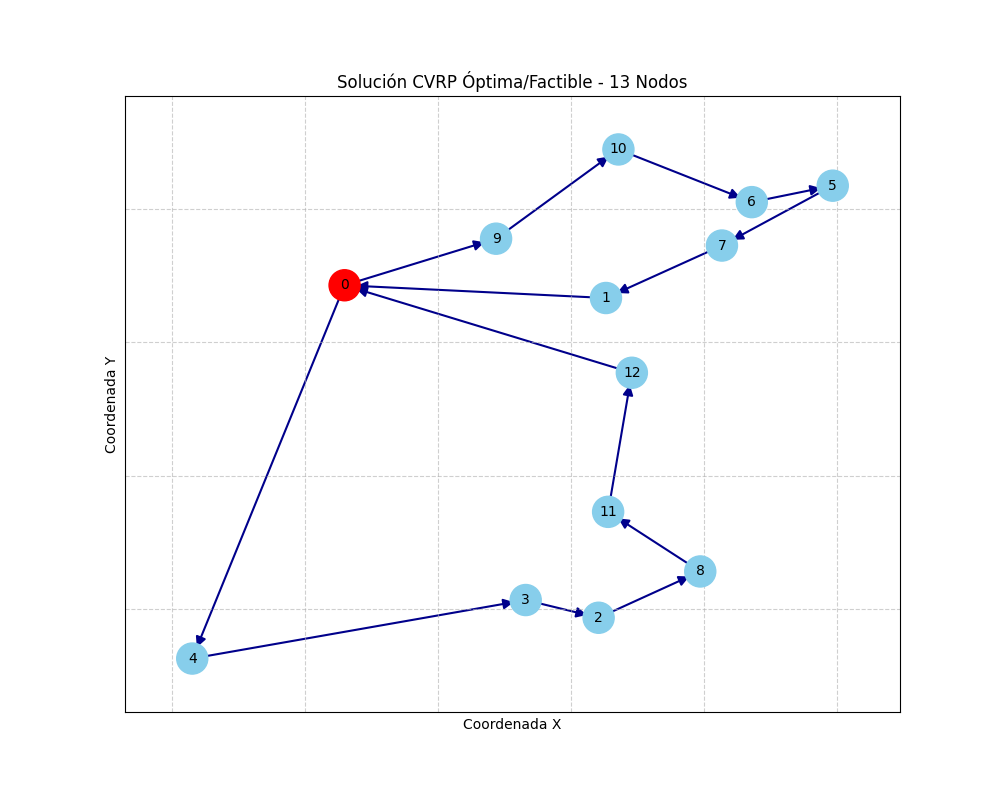
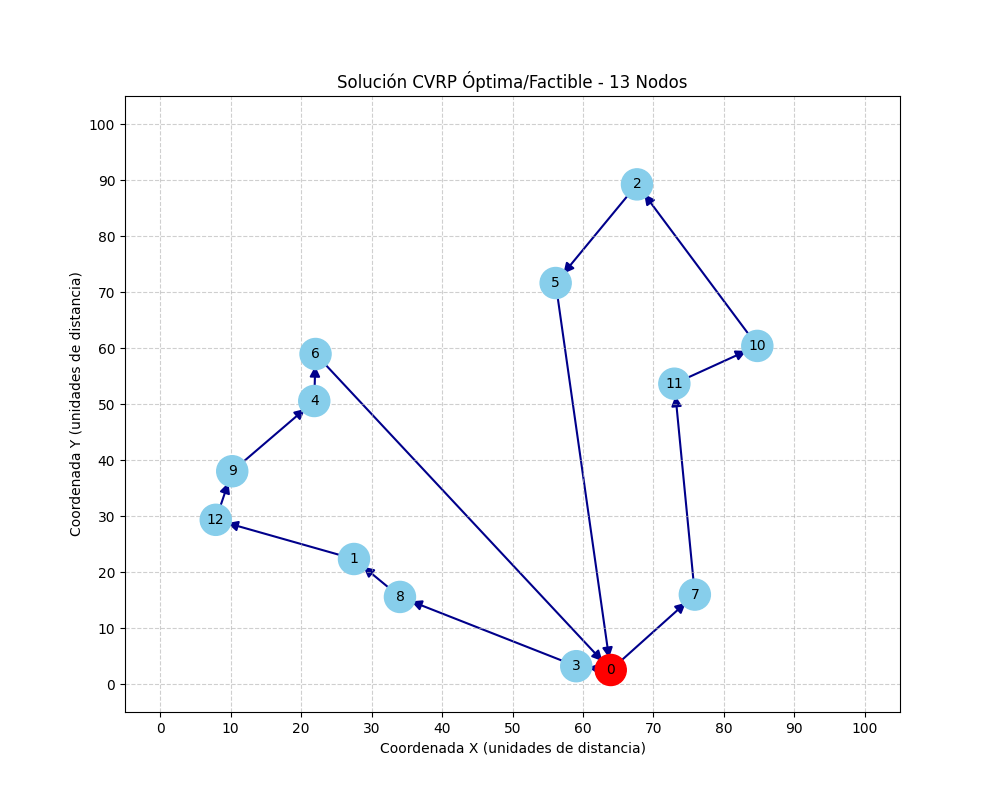
feat(persistencia)
Sección 2e (nueva): Documenta la persistencia incremental de nodos en

data/cvrp_nodes.csv
.
Sección 4a: Actualizada para describir la carga desde CSV y semilla fija (seed=42).
Sección 4c: Añadida la mención de reglas de medida en los ejes (ticks cada 10 unidades).
Sección 4d: Añadida la mención de la impresión de características del sistema antes del experimento.
Sección 3d: Corregido el título que se había corrompido.
Tabla de resultados: Corregidos los estados de los nodos 14-16 (son Factible, no No encontrada).
Imágenes: Eliminadas las referencias a plots 17-19 que ya no existen.

diff --git a/cvrp_solver.py b/cvrp_solver.py
@@ -14,15 +14,29 @@ import pulp
 import networkx as nx
 import matplotlib.pyplot as plt
 import os
+import csv
+import platform
 
-# CONFIGURACIÓN: Carpeta para guardar los resultados visuales
+try:
+    import psutil
+    HAS_PSUTIL = True
+except ImportError:
+    HAS_PSUTIL = False
+
+# CONFIGURACIÓN: Carpetas para guardar resultados
 PLOTS_DIR = 'plots'
 if not os.path.exists(PLOTS_DIR):
     os.makedirs(PLOTS_DIR)
 
+DATA_DIR = 'data'
+if not os.path.exists(DATA_DIR):
+    os.makedirs(DATA_DIR)
+
 def generate_cvrp_data(num_nodes, capacity, seed=42):
     """
-    Genera un conjunto de datos aleatorios para el problema CVRP.
+    Genera o carga un conjunto de datos persistidos para el problema CVRP.
+    En cada iteración se reutilizan los nodos anteriores y solo se generan los faltantes,
+    garantizando continuidad incremental entre ejecuciones.
     
     Args:
         num_nodes (int): Cantidad total de nodos (incluyendo el depósito).
@@ -32,28 +46,61 @@ def generate_cvrp_data(num_nodes, capacity, seed=42):
     Returns:
         tuple: (Lista de nodos con coord x,y y demanda, Matriz de distancias Euclidiana)
     """
-    random.seed(seed)
-    
-    # El nodo 0 es siempre el depósito (depot), con demanda 0
-    nodes = [{'id': 0, 'x': random.uniform(0, 100), 'y': random.uniform(0, 100), 'demand': 0}]
-    
-    # Resto de los nodos representas clientes con demandas aleatorias entre 1 y capacity/3
-    for i in range(1, num_nodes):
-        demand = random.randint(1, max(1, capacity // 3))
-        nodes.append({'id': i, 'x': random.uniform(0, 100), 'y': random.uniform(0, 100), 'demand': demand})
-        
+    file_path = os.path.join(DATA_DIR, 'cvrp_nodes.csv')
+    nodes = []
+
+    # 1. Intentar cargar nodos persistidos desde el CSV
+    if os.path.exists(file_path):
+        with open(file_path, mode='r', newline='') as f:
+            reader = csv.DictReader(f)
+            for row in reader:
+                nodes.append({
+                    'id': int(row['id']),
+                    'x': float(row['x']),
+                    'y': float(row['y']),
+                    'demand': int(row['demand'])
+                })
+
+    # 2. Si necesitamos más nodos de los que tenemos, generar solo los faltantes
+    if len(nodes) < num_nodes:
+        # Inicializar la semilla y avanzar la secuencia aleatoria
+        # hasta el punto correcto para mantener consistencia
+        random.seed(seed)
+        # Reproducir la secuencia completa para los nodos que ya existen
+        for i in range(len(nodes)):
+            random.uniform(0, 100)  # x
+            random.uniform(0, 100)  # y
+            if i > 0:
+                random.randint(1, max(1, capacity // 3))  # demand
+
+        # Generar los nodos faltantes desde donde quedó la secuencia
+        for i in range(len(nodes), num_nodes):
+            x = random.uniform(0, 100)
+            y = random.uniform(0, 100)
+            demand = 0 if i == 0 else random.randint(1, max(1, capacity // 3))
+            nodes.append({'id': i, 'x': x, 'y': y, 'demand': demand})
+
+        # 3. Persistir el conjunto completo actualizado en disco
+        with open(file_path, mode='w', newline='') as f:
+            writer = csv.DictWriter(f, fieldnames=['id', 'x', 'y', 'demand'])
+            writer.writeheader()
+            writer.writerows(nodes)
+
+    # Usar solo la cantidad de nodos solicitada para esta iteración
+    active_nodes = nodes[:num_nodes]
+
     # Calcular matriz de distancias Euclidiana entre todos los pares de nodos (i, j)
     distances = {}
     for i in range(num_nodes):
         for j in range(num_nodes):
             if i != j:
-                dx = nodes[i]['x'] - nodes[j]['x']
-                dy = nodes[i]['y'] - nodes[j]['y']
+                dx = active_nodes[i]['x'] - active_nodes[j]['x']
+                dy = active_nodes[i]['y'] - active_nodes[j]['y']
                 distances[(i, j)] = math.sqrt(dx**2 + dy**2)
             else:
                 distances[(i, j)] = 0.0
                 
-    return nodes, distances
+    return active_nodes, distances
 
 def draw_cvrp_solution(nodes, x_vars, num_nodes):
     """
@@ -80,21 +127,28 @@ def draw_cvrp_solution(nodes, x_vars, num_nodes):
     
     G.add_edges_from(edges)
     
-    plt.figure(figsize=(10, 8))
+    fig, ax = plt.subplots(figsize=(10, 8))
     
     # Dibujar nodos: El depósito (0) se pinta de Rojo, los clientes de Azul Cielo
     node_colors = ['red' if i == 0 else 'skyblue' for i in G.nodes()]
-    nx.draw_networkx_nodes(G, pos, node_color=node_colors, node_size=500)
-    nx.draw_networkx_labels(G, pos, font_size=10)
+    nx.draw_networkx_nodes(G, pos, node_color=node_colors, node_size=500, ax=ax)
+    nx.draw_networkx_labels(G, pos, font_size=10, ax=ax)
     
     # Dibujar las rutas con flechas para indicar el sentido del vehículo
     nx.draw_networkx_edges(G, pos, edgelist=edges, edge_color='darkblue', 
-                           arrows=True, arrowsize=15, width=1.5)
+                           arrows=True, arrowsize=15, width=1.5, ax=ax)
     
-    plt.title(f"Solución CVRP Óptima/Factible - {num_nodes} Nodos")
-    plt.xlabel("Coordenada X")
-    plt.ylabel("Coordenada Y")
-    plt.grid(True, linestyle='--', alpha=0.6)
+    # Activar ejes con reglas de medida (ticks cada 10 unidades)
+    ax.tick_params(left=True, bottom=True, labelleft=True, labelbottom=True)
+    ax.set_xticks(range(0, 101, 10))
+    ax.set_yticks(range(0, 101, 10))
+    ax.set_xlim(-5, 105)
+    ax.set_ylim(-5, 105)
+    
+    ax.set_title(f"Solución CVRP Óptima/Factible - {num_nodes} Nodos")
+    ax.set_xlabel("Coordenada X (unidades de distancia)")
+    ax.set_ylabel("Coordenada Y (unidades de distancia)")
+    ax.grid(True, linestyle='--', alpha=0.6)
     
     # Guardar en la carpeta de resultados
     plt.savefig(f"{PLOTS_DIR}/cvrp_solution_{num_nodes}_nodes.png")
@@ -114,7 +168,7 @@ def solve_cvrp_iteration(num_nodes, capacity=100, time_limit=60):
         tuple: (Estado de la solución, Tiempo de ejecución en segundos)
     """
     start_time = time.perf_counter()
-    nodes, distances = generate_cvrp_data(num_nodes, capacity, seed=num_nodes)
+    nodes, distances = generate_cvrp_data(num_nodes, capacity, seed=42)
     
     N = range(num_nodes)  # Conjunto de todos los nodos (incluyendo el depósito)
     C = range(1, num_nodes) # Conjunto de clientes (nodos sin el depósito)
@@ -190,11 +244,34 @@ def solve_cvrp_iteration(num_nodes, capacity=100, time_limit=60):
     else:
         return "No encontrada", exec_time_s
 
+def print_system_info():
+    """Muestra las características del ambiente de ejecución."""
+    print("-----------------------------------------------------------------")
+    print(" INFORMACIÓN DEL SISTEMA")
+    print("-----------------------------------------------------------------")
+    print(f"  SO:              {platform.system()} {platform.release()} ({platform.version()})")
+    print(f"  Arquitectura:    {platform.machine()}")
+    print(f"  Procesador:      {platform.processor()}")
+    print(f"  Python:          {platform.python_version()}")
+    if HAS_PSUTIL:
+        cpu_freq = psutil.cpu_freq()
+        ram = psutil.virtual_memory()
+        print(f"  Núcleos físicos: {psutil.cpu_count(logical=False)}")
+        print(f"  Núcleos lógicos: {psutil.cpu_count(logical=True)}")
+        if cpu_freq:
+            print(f"  Frecuencia CPU:  {cpu_freq.current:.0f} MHz (max: {cpu_freq.max:.0f} MHz)")
+        print(f"  RAM total:       {ram.total / (1024**3):.2f} GB")
+        print(f"  RAM disponible:  {ram.available / (1024**3):.2f} GB")
+    else:
+        print("  (Instale 'psutil' para ver detalles de CPU/RAM: pip install psutil)")
+    print("-----------------------------------------------------------------")
+
 def main():
     """Función de entrada que ejecuta el experimento incrementalmente."""
     print("=================================================================")
     print(" EXPERIMENTO ACADÉMICO: Capacitated Vehicle Routing Problem")
     print("=================================================================")
+    print_system_info()
     
     # Tiempo límite por cada instancia de resolución (en segundos)
     time_limit = 60

diff --git a/README.md b/README.md
@@ -28,6 +28,8 @@ c.  **Capacidad de Flota**: Cada vehículo posee una capacidad fija de **100 uni
 
 d.  **Demandas de Clientes**: Cada cliente (`id: i`) requiere una carga aleatoria entre **1 y 33 unidades**, lo que obliga a la flota a realizar varias rutas separadas cuando la demanda total acumulada de un conjunto de clientes supera las 100 unidades.
 
+e.  **Persistencia Incremental**: Los datos de todos los nodos (coordenadas y demandas) se almacenan en `data/cvrp_nodes.csv`. En cada iteración se reutilizan los nodos previos y solo se generan los faltantes, garantizando continuidad entre ejecuciones.
+
 ---
 
 ## 3. Metodologías y Tecnologías Aplicadas
@@ -48,8 +50,8 @@ d.  **Graficación por Capas (NetworkX/Matplotlib)**: Una metodología de repres
 
 El script `cvrp_solver.py` se organiza en sus funciones críticas de modelado y un sistema de evaluación de resultados:
 
-a.  **Generación de Vectores** (`generate_cvrp_data`)
--   Implementa la lógica de generación aleatoria reproducible mediante semillas (`seed`).
+a.  **Generación y Persistencia de Datos** (`generate_cvrp_data`)
+-   Carga nodos existentes desde `data/cvrp_nodes.csv` y genera solo los faltantes con semilla fija (`seed=42`).
 -   Calcula la **Matriz de Distancias Euclidiana** para que el modelo conozca el costo de viajar de cualquier nodo A al B.
 
 b.  **El Núcleo de Modelado** (`solve_cvrp_iteration`)
@@ -62,8 +64,10 @@ b.  **El Núcleo de Modelado** (`solve_cvrp_iteration`)
 c.  **Renderizado de Solución** (`draw_cvrp_solution`)
 -   Extrae las variables `x_ij` activas y crea un objeto `nx.DiGraph`.
 -   Diferencia visualmente el depósito (rojo) de los clientes (azul cielo) y dibuja flechas de dirección para las rutas.
+-   Incluye reglas de medida en ambos ejes (ticks cada 10 unidades de distancia).
 
 d.  **Orquestador Principal** (`main`)
+-   Imprime las características del sistema (SO, procesador, RAM) antes de iniciar el experimento.
 -   Ejecuta el bucle incremental (incrementando `num_nodes`). Registra tiempos de ejecución y detiene el proceso automáticamente al detectar un tiempo excesivo o una solución no encontrada.
 
 e.  **Lógica de Clasificación de Estados**
@@ -94,27 +98,33 @@ python cvrp_solver.py
 
 A continuación se muestra el comportamiento observado durante el análisis:
 
+### Ambiente de Ejecución
+
+```
+SO:              Windows 11 (10.0.26200)
+Arquitectura:    AMD64
+Procesador:      AMD64 Family 25 Model 68 Stepping 1, AuthenticAMD
+Python:          3.13.5
+```
+
+### Resultados
+
 | Nodos | Tiempo (seg) | Estado |
 |-------|--------------|--------|
-| 10 | 3.47 | Factible |
-| 11 | 4.43 | Factible |
-| 12 | 4.81 | Factible |
-| 13 | 60.11 | Factible |
-| 14 | 56.97 | Factible |
-| 15 | 60.21 | Factible |
-| 16 | 47.03 | Factible |
-| 17 | 59.91 | Factible |
-| 18 | 59.93 | Factible |
-| 19 | 1459.58 | Factible |
-| 20 | --- | No encontrada |
+| 10 | 3.70 | Factible |
+| 11 | 3.44 | Factible |
+| 12 | 21.05 | Factible |
+| 13 | 59.95 | Factible |
+| 14 | 61.04 | Factible |
+| 15 | 62.11 | Factible |
+| 16 | 65.28 | Factible |
+| 17 | --- | No encontrada |
 
-![Solución 10](plots/cvrp_solution_10_nodes.png)
-![Solución 11](plots/cvrp_solution_11_nodes.png)
-![Solución 12](plots/cvrp_solution_12_nodes.png)
-![Solución 13](plots/cvrp_solution_13_nodes.png)
-![Solución 14](plots/cvrp_solution_14_nodes.png)
-![Solución 15](plots/cvrp_solution_15_nodes.png)
-![Solución 16](plots/cvrp_solution_16_nodes.png)
-![Solución 17](plots/cvrp_solution_17_nodes.png)
-![Solución 18](plots/cvrp_solution_18_nodes.png)
-![Solución 19](plots/cvrp_solution_19_nodes.png)
+![Análisis de Escalabilidad](plots/scalability_chart.png)
+![Solución para 10 nodos](plots/cvrp_solution_10_nodes.png)
+![Solución para 11 nodos](plots/cvrp_solution_11_nodes.png)
+![Solución para 12 nodos](plots/cvrp_solution_12_nodes.png)
+![Solución para 13 nodos](plots/cvrp_solution_13_nodes.png)
+![Solución para 14 nodos](plots/cvrp_solution_14_nodes.png)
+![Solución para 15 nodos](plots/cvrp_solution_15_nodes.png)
+![Solución para 16 nodos](plots/cvrp_solution_16_nodes.png)
